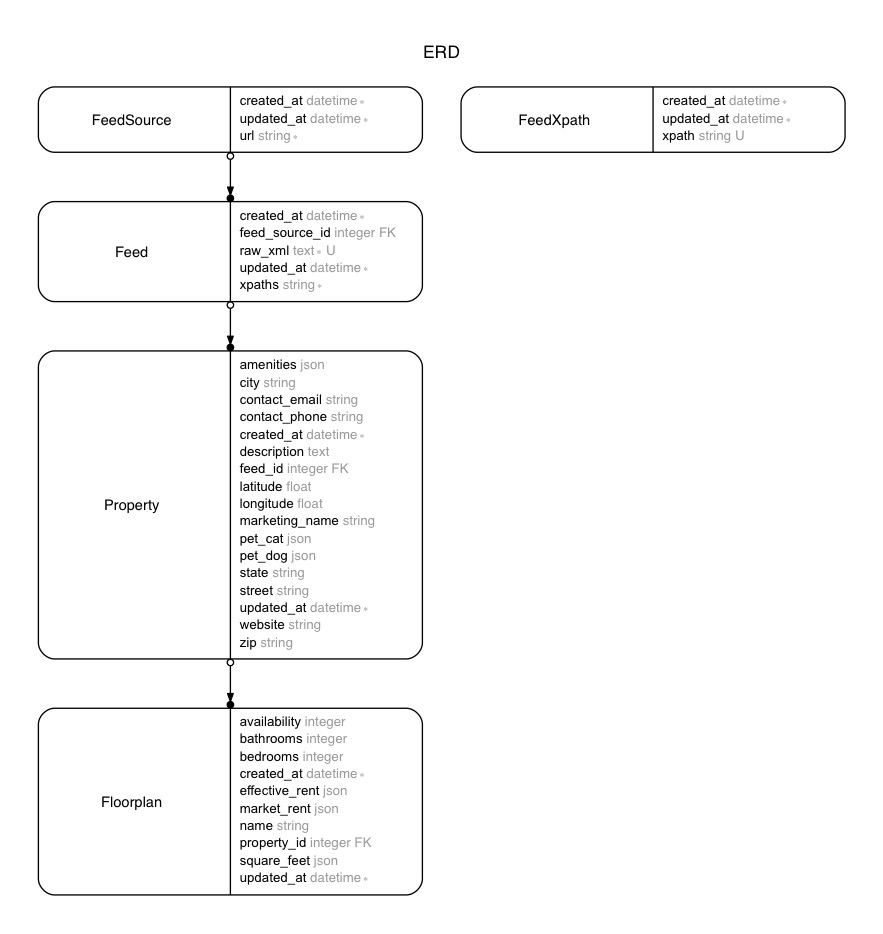
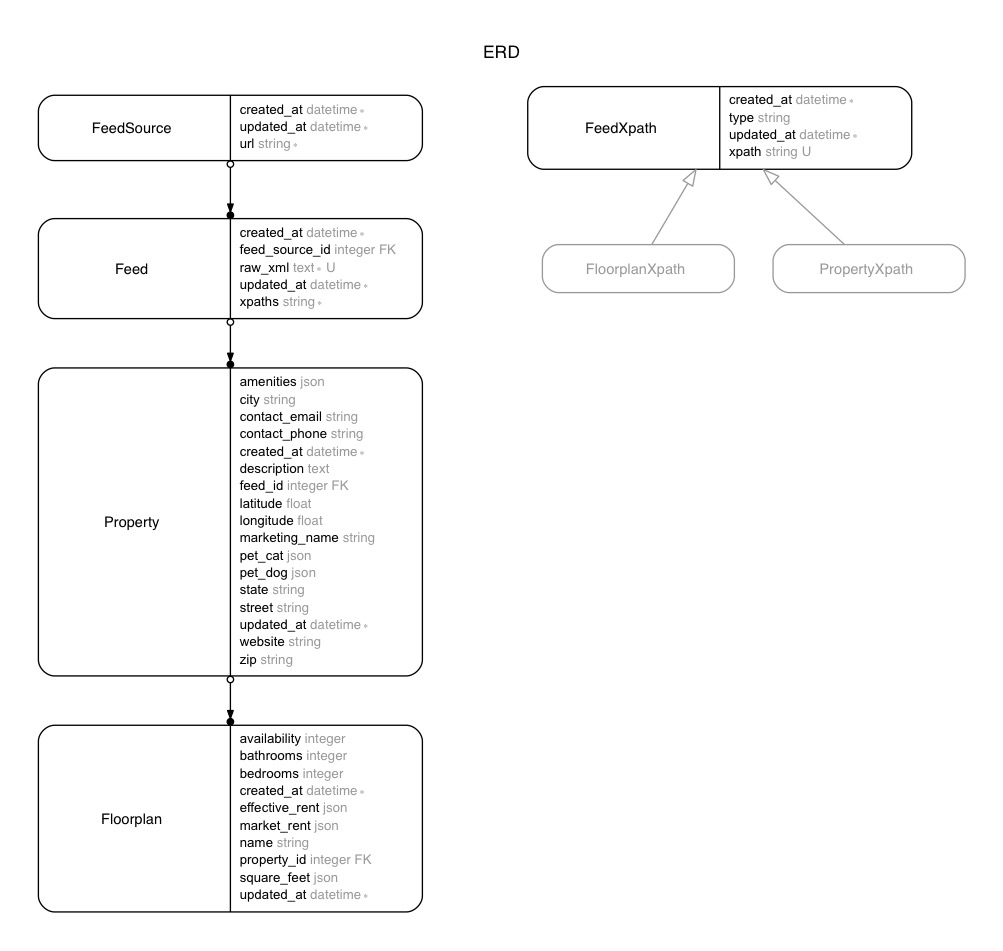
Add PropertyXpath and FloorplanXpath models that inherit from FeedXpath

diff --git a/db/schema.rb b/db/schema.rb
@@ -23,6 +23,7 @@ ActiveRecord::Schema.define(version: 20161217174154) do
 
   create_table "feed_xpaths", force: :cascade do |t|
     t.string   "xpath"
+    t.string   "type"
     t.datetime "created_at", null: false
     t.datetime "updated_at", null: false
   end

diff --git a/app/models/feed_xpath.rb b/app/models/feed_xpath.rb
@@ -4,6 +4,7 @@
 #
 #  id         :integer          not null, primary key
 #  xpath      :string
+#  type       :string
 #  created_at :datetime         not null
 #  updated_at :datetime         not null
 #

diff --git a/test/models/feed_xpath_test.rb b/test/models/feed_xpath_test.rb
@@ -4,6 +4,7 @@
 #
 #  id         :integer          not null, primary key
 #  xpath      :string
+#  type       :string
 #  created_at :datetime         not null
 #  updated_at :datetime         not null
 #

diff --git a/db/migrate/20161217174154_create_feed_xpaths.rb b/db/migrate/20161217174154_create_feed_xpaths.rb
@@ -2,6 +2,7 @@ class CreateFeedXpaths < ActiveRecord::Migration[5.0]
   def change
     create_table :feed_xpaths do |t|
       t.string :xpath
+      t.string :type
 
       t.timestamps
     end

diff --git a/app/models/floorplan_xpath.rb b/app/models/floorplan_xpath.rb
@@ -9,8 +9,5 @@
 #  updated_at :datetime         not null
 #
 
-FactoryGirl.define do
-  factory :feed_xpath do
-    xpath "MyString"
-  end
+class FloorplanXpath < FeedXpath
 end

diff --git a/app/models/property_xpath.rb b/app/models/property_xpath.rb
@@ -9,8 +9,5 @@
 #  updated_at :datetime         not null
 #
 
-FactoryGirl.define do
-  factory :feed_xpath do
-    xpath "MyString"
-  end
+class PropertyXpath < FeedXpath
 end
